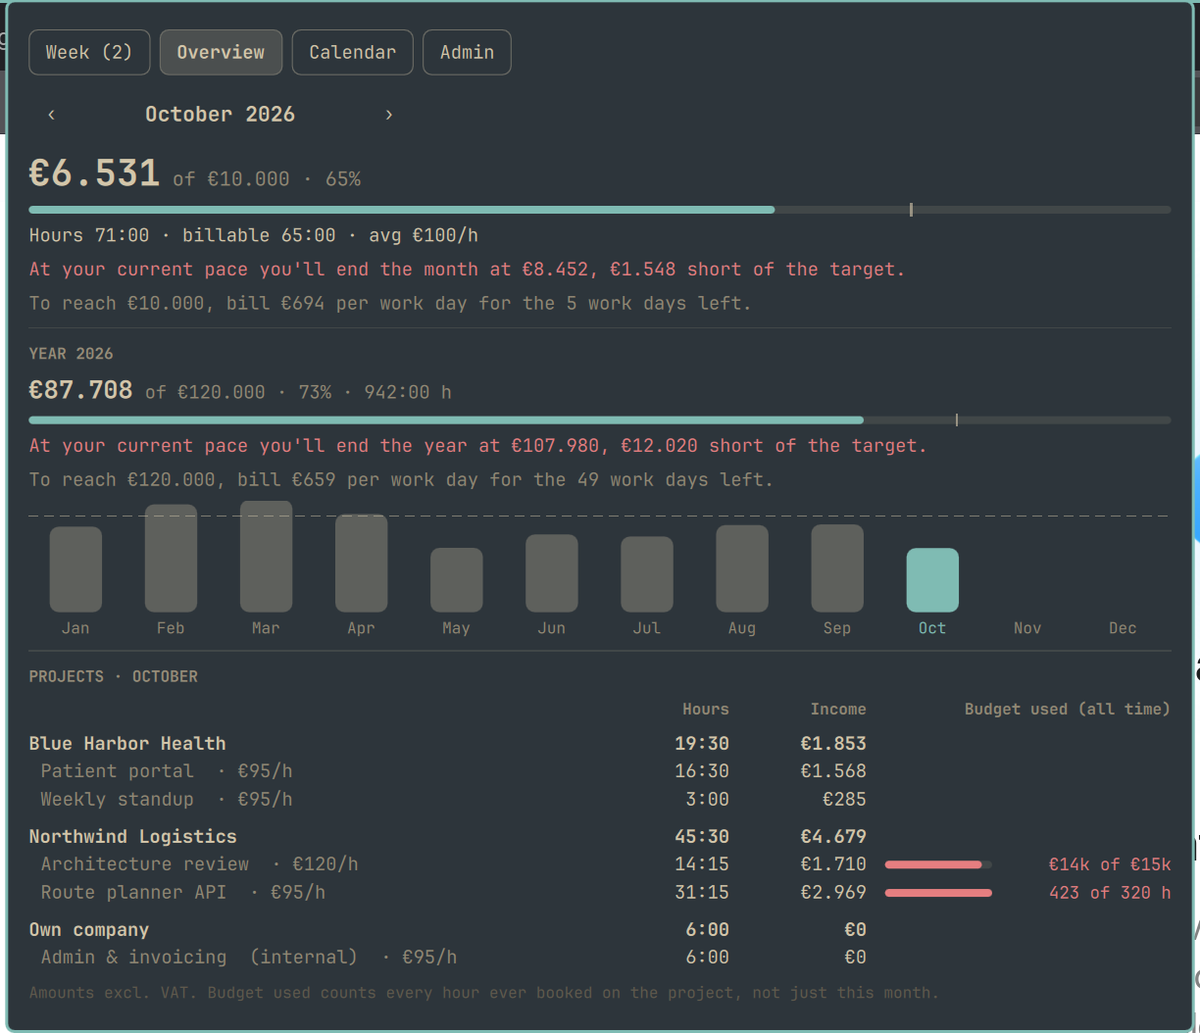
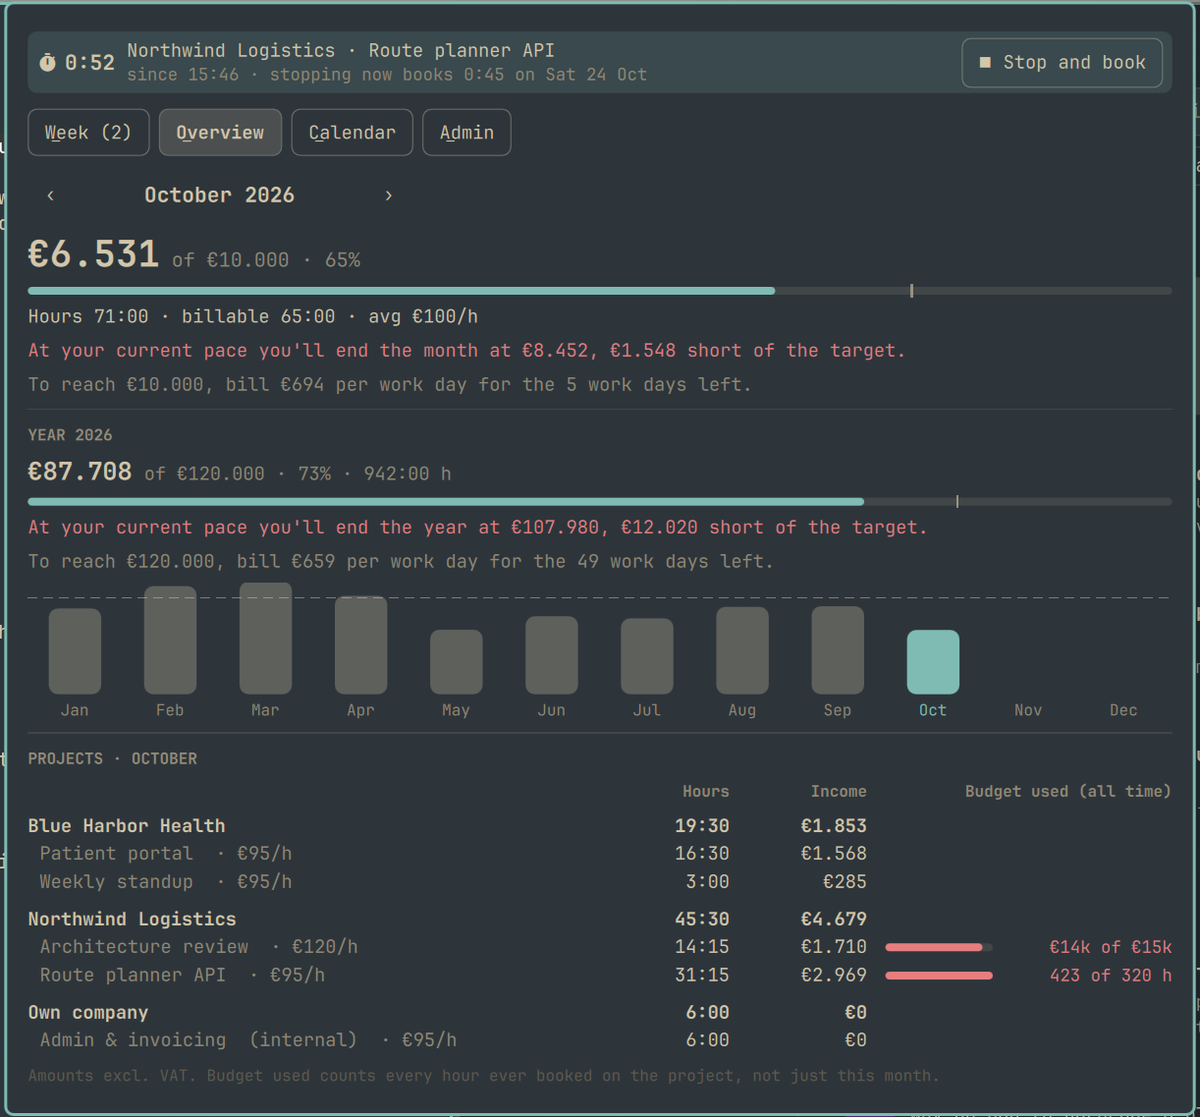
Demo timer, notes and new screenshots
Demo mode now has notes on the current week and a timer that has run for 52
minutes during a meeting, so stopping it shows the "what did you do?"
prompt. The screenshot script can press navigation keys and capture that
prompt; anything that acts on data runs only after demo mode is confirmed
on. README covers notes, the prompt and the tab shortcuts.

Assisted by AI

diff --git a/Demo.js b/Demo.js
@@ -1,10 +1,12 @@
 // Fictional data for demo mode and the screenshots: three customers, a year
 // of hours up to `today`, and a fake calendar of recurring meetings around
 // it. One finished project and one former customer are archived, with hours
-// in the first months of the year so they show up when you browse back. Deterministic for a given day. Takes Model as an argument so it runs
+// in the first months of the year so they show up when you browse back.
+// Given `nowMs`, a timer has been running for 52 minutes during a meeting,
+// so stopping it shows the "what did you do?" prompt with that meeting. Deterministic for a given day. Takes Model as an argument so it runs
 // both in QML (demo mode) and under node (demo/make-demo.js).
 
-function build(Model, today, calendarPath) {
+function build(Model, today, calendarPath, nowMs) {
   var d = Model.defaults()
   d.rates = [{ id: "r1", name: "Development", amount: 95 }, { id: "r2", name: "Solution architecture", amount: 120 }]
   d.customers = [
@@ -76,6 +78,26 @@ function build(Model, today, calendarPath) {
     }
   }
   d.calendar.links = { "demo-standup": "p4", "demo-review": "p2" }
+
+  // Notes on this week's cells, one line per thing done.
+  var lines = {
+    p1: [["Pagination for /routes", "Fix flaky integration tests"], ["Route optimiser: time windows"], ["Code review with Sam", "Deploy to staging"]],
+    p3: [["Consent screen", "Accessibility pass"], ["Review with the care team"]],
+    p2: [["Draft target architecture"], ["Workshop with Northwind IT (whiteboard photos in Drive)"]]
+  }
+  for (var nk = Model.weekStart(today), n = 0; nk < today; nk = Model.addDays(nk, 1), n++)
+    for (var pid in lines)
+      if (Model.minutesOn(d, nk, pid)) Model.setNotes(d, nk, pid, lines[pid][n % lines[pid].length])
+
+  if (nowMs) {
+    d.timer = { projectId: "p1", startedAt: nowMs - 52 * 60000 }
+    d.settings.lastProjectId = "p1"
+    events.push({
+      uid: "demo-oneoff", title: "Route planner design review", allDay: false, recurring: false, seriesId: null,
+      start: new Date(nowMs - 40 * 60000).toISOString(), end: new Date(nowMs - 10 * 60000).toISOString(),
+      status: "confirmed", response: "accepted"
+    })
+  }
 
   // Leave the two most recent meetings waiting for a decision.
   var now = Model.parseKey(today).getTime() + 14 * 3600000

diff --git a/tests/test_model.js b/tests/test_model.js
@@ -136,6 +136,16 @@ test("demo data is marked and survives a save round trip", () => {
   assert.equal(Model.suggestions(demo.hours, demo.events, Date.parse("2026-10-24T14:00:00")).length, 2);
 });
 
+test("demo data with a running timer during a meeting", () => {
+  const Demo = require("../Demo.js");
+  const now = Date.parse("2026-10-24T15:00:00");
+  const demo = Demo.build(Model, "2026-10-24", "x", now);
+  assert.equal(demo.hours.timer.projectId, "p1");
+  const met = Model.meetingsDuring(demo.events, demo.hours.timer.startedAt, now);
+  assert.deepEqual(met.map(m => m.title), ["Route planner design review"]);
+  assert.ok(Object.keys(demo.hours.notes).length > 0);
+});
+
 test("notes are lines per day and project", () => {
   const d = Model.defaults();
   Model.addNote(d, "2026-10-20", "p1", "  Standup met Rein  ");

diff --git a/Service.qml b/Service.qml
@@ -324,7 +324,7 @@ Item {
     if (on === demo) return
     backupDelay.stop()
     if (on) {
-      var built = Demo.build(Model, today, "~/.cache/on-the-clock-demo/events.json")
+      var built = Demo.build(Model, today, "~/.cache/on-the-clock-demo/events.json", Date.now())
       demoEvents.setText(JSON.stringify({ events: built.events }) + "\n")
       demoHours.setText(JSON.stringify(built.hours, null, 2) + "\n")
     }

diff --git a/README.md b/README.md
@@ -24,12 +24,15 @@ To open the panel from the keyboard, add a binding to
 ## What's in the panel
 
 A running timer sits in a strip above the tabs, with what stopping now would
-book and on which day.
+book and on which day. When you stop it, the panel asks what you did: the
+calendar meetings during that time are offered with one click, and anything
+else you type becomes a line in that day's notes.
 
 - **Week**: projects × days. Ended calendar meetings you linked to a project
   wait at the top to be booked or skipped. ▶ on a row starts that project's
   timer; the timer books on the day it started, rounded to the nearest 0:15,
-  so it is only offered in the current week.
+  so it is only offered in the current week. Under the grid are the notes
+  of the selected cell, one line per thing done.
 - **Overview**: month and year income against target, with a marker for
   where you should be today and plain-language forecasts: where your pace
   ends up and what it takes per work day to reach the target. Below it a
@@ -41,20 +44,20 @@ book and on which day.
   and backup. Finished projects and former customers can be archived: they
   disappear from the lists but keep counting in the months they were used.
 
-| Week | Calendar | Admin |
+| Week with a running timer and notes | After stopping the timer | Admin |
 |---|---|---|
-| ![Week](screenshots/week.png) | ![Calendar](screenshots/calendar.png) | ![Admin](screenshots/admin-edit.png) |
+| ![Week](screenshots/week.png) | ![Stop prompt](screenshots/stop-prompt.png) | ![Admin](screenshots/admin-edit.png) |
 
 ### Keyboard
 
-In the Week tab:
-
 | Key | Does |
 |---|---|
-| ↑ ↓ or k j | select a project |
-| ← → or h l | select a day, continuing into the previous or next week |
-| + − | add or remove 0:15 in the selected cell, with shift 1:00 |
-| space | start or stop the selected project's timer |
+| w o c a | Week, Overview, Calendar, Admin |
+| ↑ ↓ or k j | Week: select a project |
+| ← → or h l | Week: select a day, continuing into the previous or next week |
+| + − | Week: add or remove 0:15 in the selected cell, with shift 1:00 |
+| n | Week: add a note line to the selected cell; Enter adds, Esc returns |
+| space | Week: start or stop the selected project's timer |
 | Esc | close the panel |
 
 With the mouse: click a cell for +0:15, right-click for −0:15, shift-click
@@ -96,7 +99,8 @@ remote field after the first push.
 
 Click the "Data:" line at the bottom of Admin → Settings five times (or run
 `omarchy-shell ontheclock demo on`) to try everything on fictional customers
-and a year of hours, including archived ones. A banner shows while it is on.
+and a year of hours, including archived ones, notes and a timer that has
+been running for 52 minutes during a meeting. A banner shows while it is on.
 Demo data lives in `~/.cache/on-the-clock-demo`, is never saved over your own
 file and is never backed up; a shell restart always starts on your own data.
 
